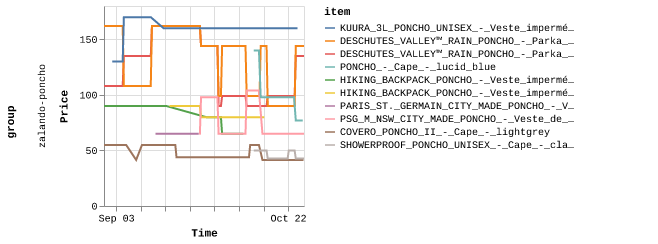
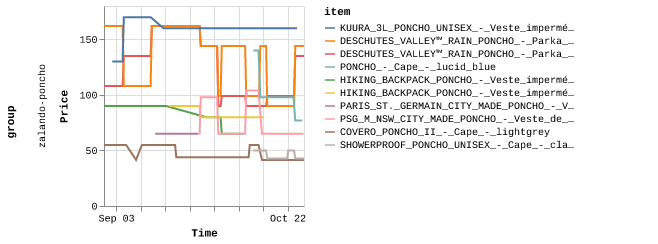
Latest scraping prices: Thu Oct 26 16:50:22 UTC 2023

diff --git a/scrapes/prices/zalando-poncho-COVERO_PONCHO_II_-_Cape_-_lightgrey.md b/scrapes/prices/zalando-poncho-COVERO_PONCHO_II_-_Cape_-_lightgrey.md
@@ -1,3 +1,3 @@
-6495
+4145
 
 [Source](https://fr.zalando.be/homme/?q=poncho+imperm%C3%A9able&sold_by_zalando=true)
